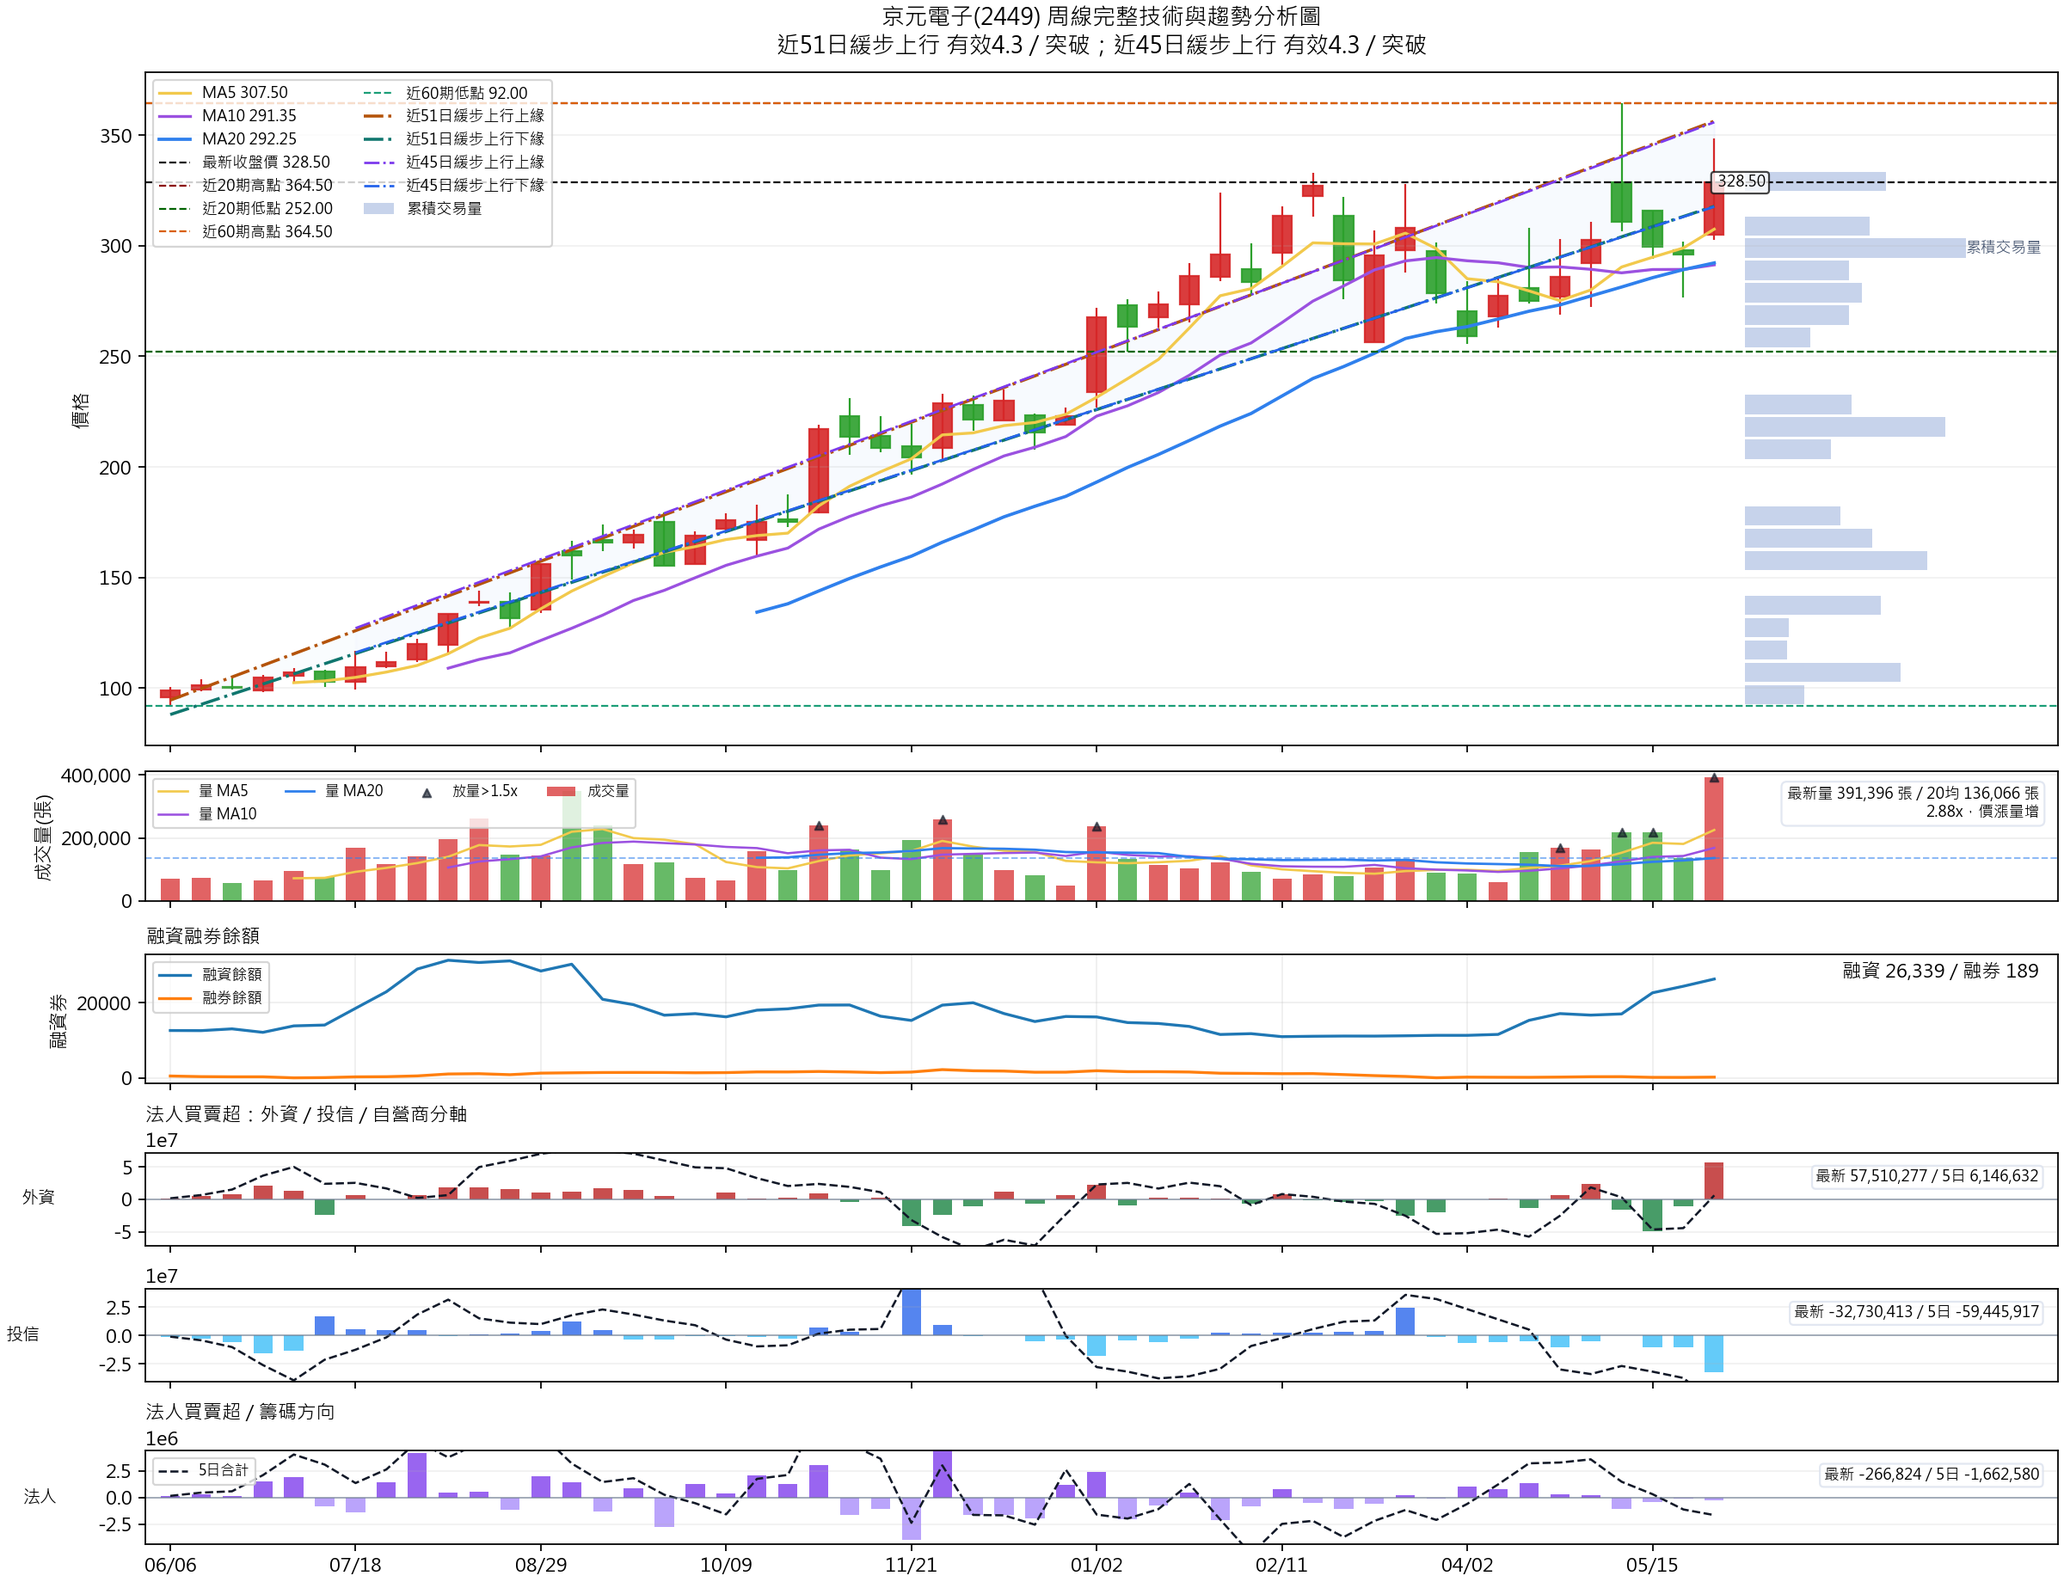
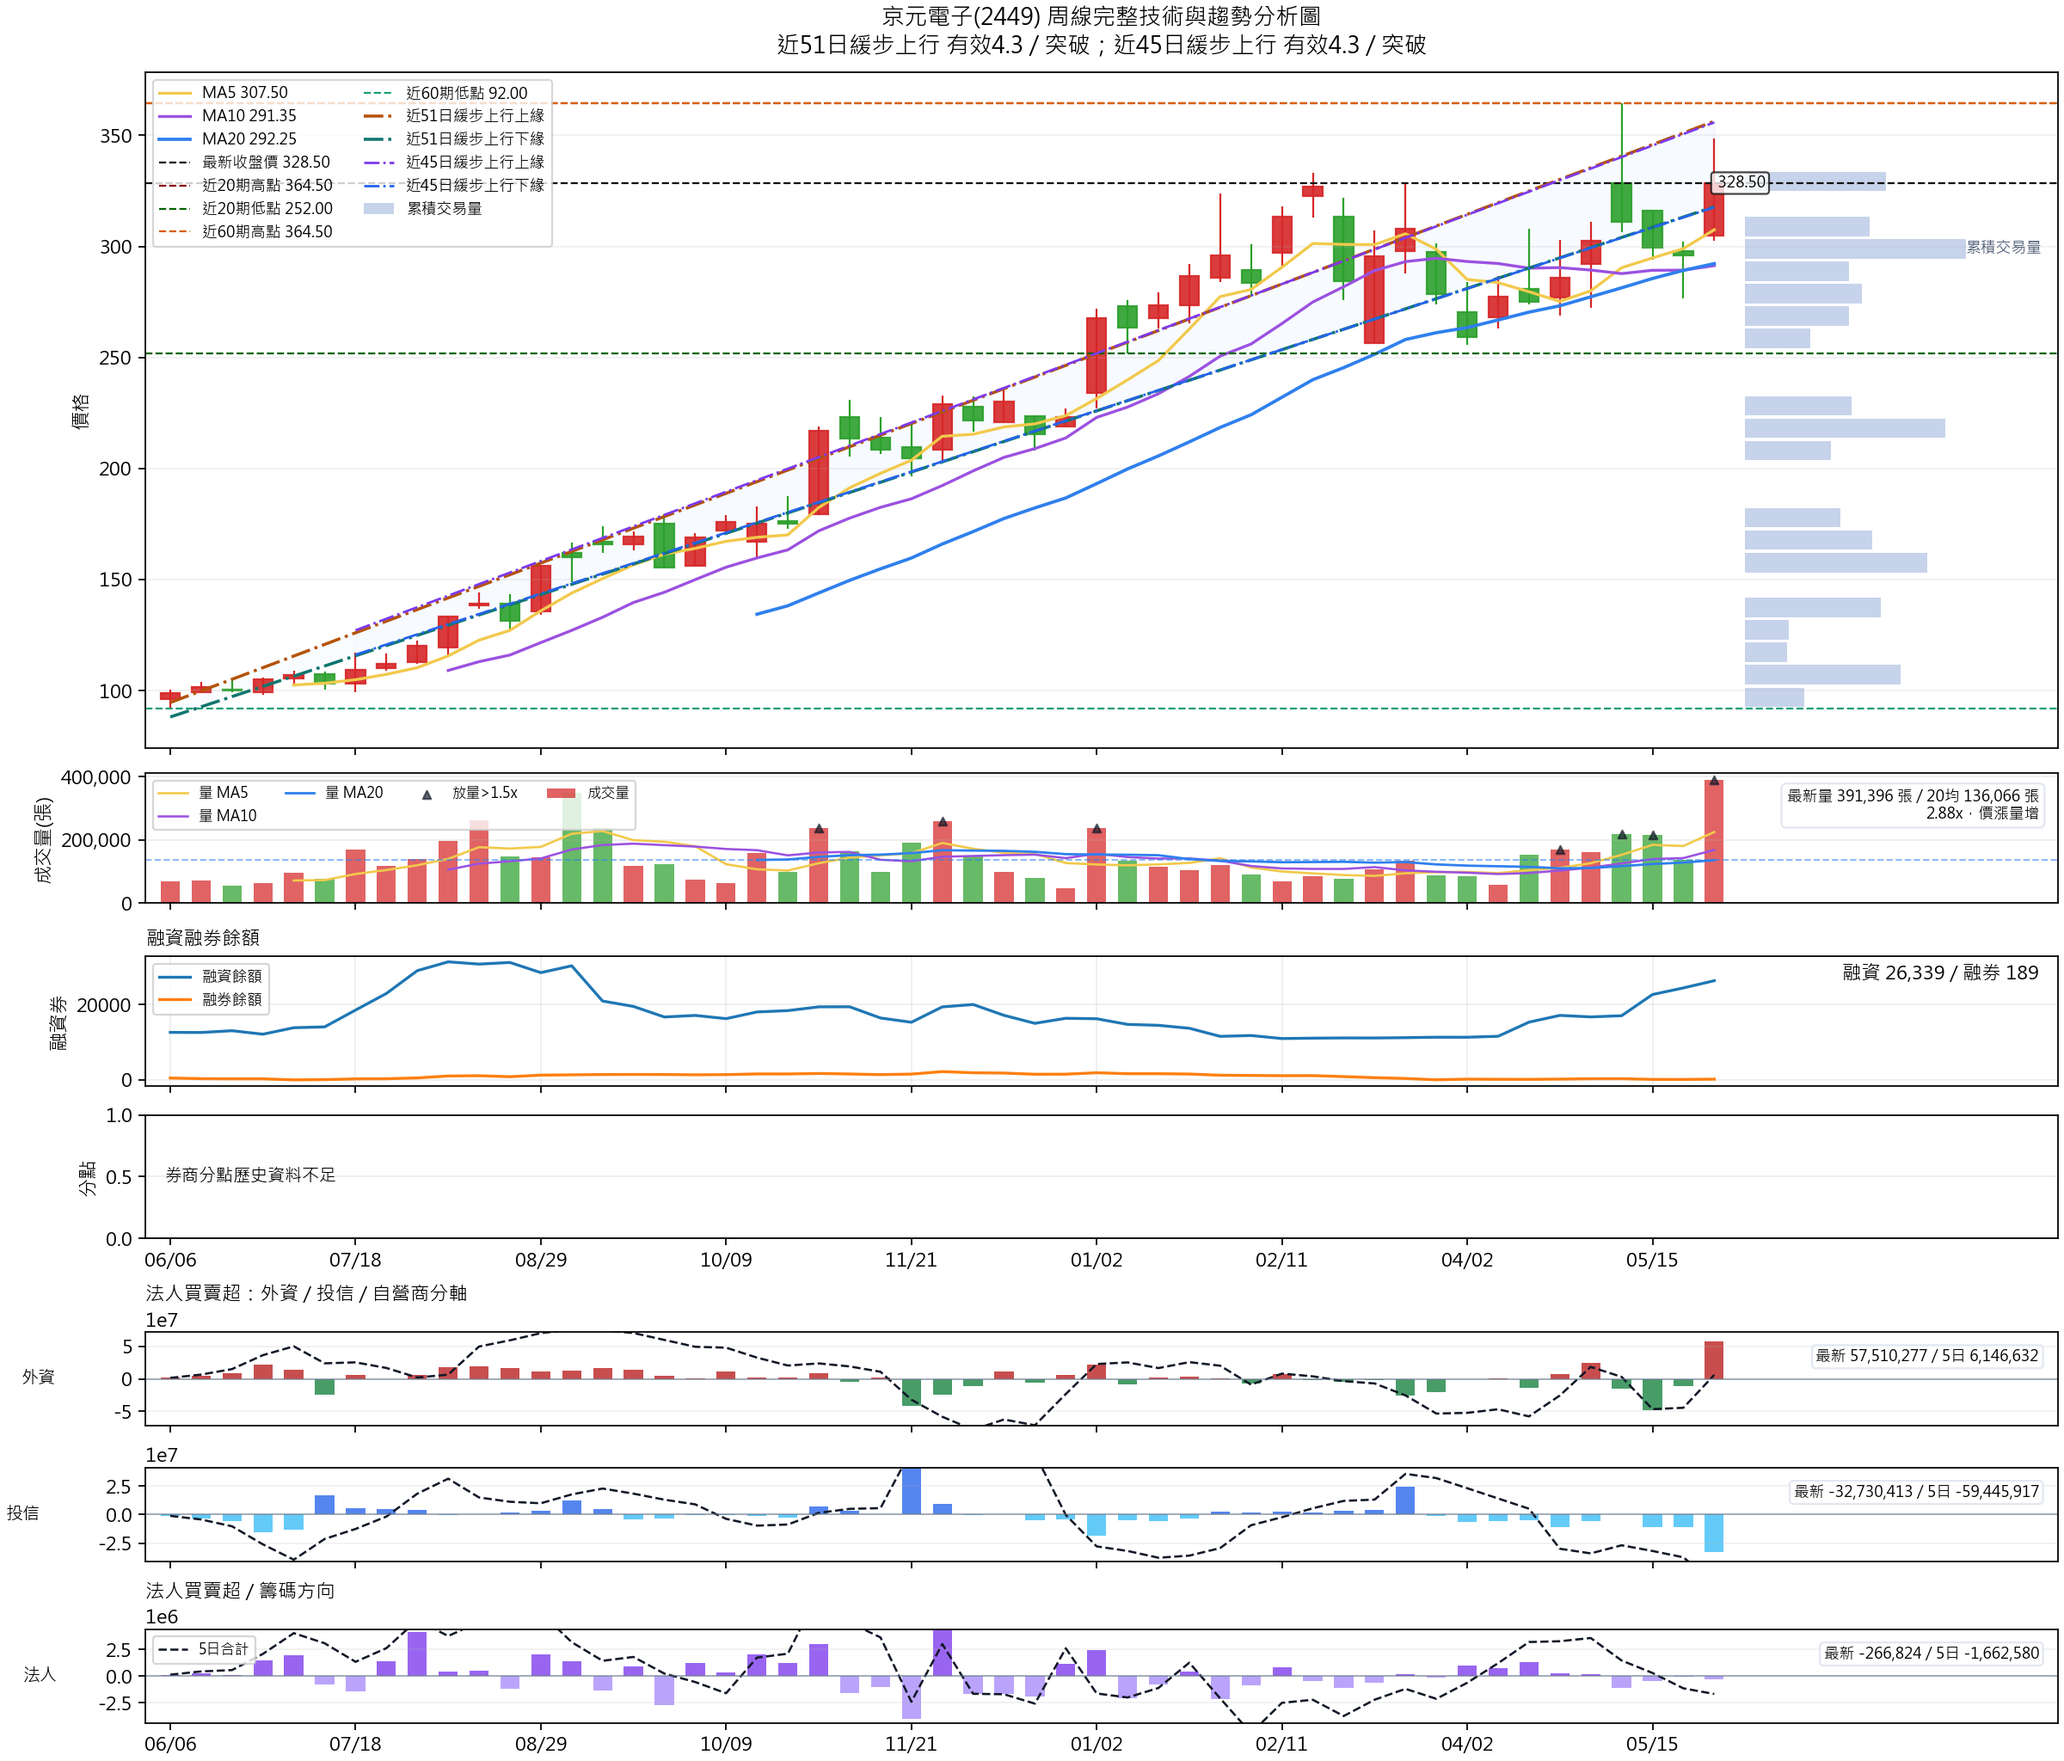
Publish stock report 2449_2026-05-31

diff --git a/2449_2026-05-31/index.html b/2449_2026-05-31/index.html
@@ -145,15 +145,15 @@
 <body>
   <header>
     <h1>京元電子(2449) 台股技術分析報告</h1>
-    <div>產生時間：2026-05-31T11:49:10+08:00</div>
+    <div>產生時間：2026-05-31T17:17:15+08:00</div>
   </header>
   <main>
     
     <section class="panel conclusion">
       <h2>結論摘要</h2>
-      <div class="summary-decision">偏多強勢，偏多震盪 / 偏多震盪 / 中性 245 元；現價差 +33.9%；偏高估區：不宜只用本益比追價</div>
+      <div class="summary-decision">偏多強勢，偏多震盪 / 偏多震盪 / 中性 251 元；現價差 +30.7%；偏高估區：不宜只用本益比追價</div>
       <div class="summary-grid"><div class="summary-card"><span>趨勢</span><strong>偏多強勢，偏多震盪</strong></div>
-<div class="summary-card"><span>估值</span><strong>中性 245 元；現價差 +33.9%；偏高估區：不宜只用本益比追價</strong></div>
+<div class="summary-card"><span>估值</span><strong>中性 251 元；現價差 +30.7%；偏高估區：不宜只用本益比追價</strong></div>
 <div class="summary-card"><span>支撐 / 壓力</span><strong>第一 323.90 / 第二 306.30 / 強 311.45 / 壓力 364.50</strong></div>
 <div class="summary-card"><span>觀察</span><strong>價漲量增；MA5 323.90 / MA10 306.30</strong></div>
 <div class="summary-card"><span>買點</span><strong>已突破 318.80 且站穩，回測不破可偏多續抱</strong></div>
@@ -199,19 +199,19 @@
     
         <section class="panel chart-panel">
           <h2>01_日線完整技術與籌碼分析圖</h2>
-          <img src="01_日線完整技術與籌碼分析圖.png?v=2026-05-31T11:49:10+08:00" alt="01_日線完整技術與籌碼分析圖">
+          <img src="01_日線完整技術與籌碼分析圖.png?v=2026-05-31T17:17:15+08:00" alt="01_日線完整技術與籌碼分析圖">
         </section>
         
 
         <section class="panel chart-panel">
           <h2>02_周線完整技術與趨勢分析圖</h2>
-          <img src="02_周線完整技術與趨勢分析圖.png?v=2026-05-31T11:49:10+08:00" alt="02_周線完整技術與趨勢分析圖">
+          <img src="02_周線完整技術與趨勢分析圖.png?v=2026-05-31T17:17:15+08:00" alt="02_周線完整技術與趨勢分析圖">
         </section>
         
 
         <section class="panel chart-panel">
           <h2>03_月線完整技術與長期趨勢分析圖</h2>
-          <img src="03_月線完整技術與長期趨勢分析圖.png?v=2026-05-31T11:49:10+08:00" alt="03_月線完整技術與長期趨勢分析圖">
+          <img src="03_月線完整技術與長期趨勢分析圖.png?v=2026-05-31T17:17:15+08:00" alt="03_月線完整技術與長期趨勢分析圖">
         </section>
         
     
@@ -232,8 +232,8 @@
             </tr>
           </thead>
           <tbody><tr><td>保守</td><td class="cell-number">111</td><td class="cell-number">15.0x</td><td class="cell-number">7.78</td><td class="cell-number">-66.2%</td><td>風險折價後的防守估值</td></tr>
-<tr><td>中性</td><td class="cell-number">245</td><td class="cell-number">31.5x</td><td class="cell-number">7.78</td><td class="cell-number">-25.4%</td><td>產業模型 + 歷史 PER + 前瞻 EPS</td></tr>
-<tr><td>樂觀</td><td class="cell-number">307</td><td class="cell-number">39.5x</td><td class="cell-number">7.78</td><td class="cell-number">-6.5%</td><td>催化溢價後的進攻估值</td></tr></tbody>
+<tr><td>中性</td><td class="cell-number">251</td><td class="cell-number">32.3x</td><td class="cell-number">7.78</td><td class="cell-number">-23.6%</td><td>產業模型 + 歷史 PER + 前瞻 EPS</td></tr>
+<tr><td>樂觀</td><td class="cell-number">315</td><td class="cell-number">40.5x</td><td class="cell-number">7.78</td><td class="cell-number">-4.1%</td><td>催化溢價後的進攻估值</td></tr></tbody>
         </table>
       </div>
     
@@ -247,7 +247,7 @@
               <th>依據</th>
             </tr>
           </thead>
-          <tbody><tr><td>EPS/PER</td><td class="cell-number">245</td><td>前瞻 EPS 7.78 × 中性 PER 31.5x</td></tr>
+          <tbody><tr><td>EPS/PER</td><td class="cell-number">251</td><td>前瞻 EPS 7.78 × 中性 PER 32.3x</td></tr>
 <tr><td>PBR/ROE</td><td class="cell-number">45</td><td>ROE 對應合理 PBR</td></tr>
 <tr><td>技術型態</td><td class="cell-number">442</td><td>上升通道 突破量測目標</td></tr>
 <tr><td>法人籌碼成本</td><td class="cell-number">324</td><td>外資 / 投信近20與60日加碼成本</td></tr>
@@ -268,7 +268,7 @@
           <tbody><tr><td>月營收趨勢</td><td>2026-04 月營收 37.43 億元；MoM 4.03%；YoY 34.56%；近 3 個月累計 YoY 36.99%；近 12 個月滾動營收 YoY 34.17%；創近 24 個月新高；連續 13 個月年增為正</td><td>營收動能</td></tr>
 <tr><td>獲利率</td><td>2026Q1 毛利率 39.74%（年變化 +6.25 個百分點）、營業利益率 27.20%（年變化 +6.38 個百分點）</td><td>毛利率 / 營業利益率</td></tr>
 <tr><td>季報細項</td><td>2026Q1 營業費用率 12.55%（年變化 -0.14 個百分點）、稅後淨利率 22.43%（年變化 +4.95 個百分點）、ROE 2.02%（年變化 -0.65 個百分點）</td><td>營業費用率 / 稅後淨利率 / ROE</td></tr>
-<tr><td>財報推算股價</td><td>估值區間：保守 111 / 中性 245 / 樂觀 307 元<br>模型：一般產業 PER（PER 下限 6.0x / 上限 35.0x）<br>假設：EPS 7.78，PER 15.0x / 31.5x / 39.5x<br>多模型中位：324 元<br>現價：328.50 元，較中性估值 +33.9%<br>判讀：偏高估區：不宜只用本益比追價</td><td>EPS / ROE / 獲利率</td></tr>
+<tr><td>財報推算股價</td><td>估值區間：保守 111 / 中性 251 / 樂觀 315 元<br>模型：成長型 PER（PER 下限 12.0x / 上限 45.0x）<br>假設：EPS 7.78，PER 15.0x / 32.3x / 40.5x<br>多模型中位：324 元<br>現價：328.50 元，較中性估值 +30.7%<br>判讀：偏高估區：不宜只用本益比追價</td><td>EPS / ROE / 獲利率</td></tr>
 <tr><td>估值狀態</td><td>月營收、估值與正式 EPS 已取得</td><td>PER / PBR / EPS</td></tr></tbody>
         </table>
       </div>
@@ -279,7 +279,7 @@
     
         <section class="panel chart-panel">
           <h2>06_基本面分析圖</h2>
-          <img src="06_基本面分析圖.png?v=2026-05-31T11:49:10+08:00" alt="06_基本面分析圖">
+          <img src="06_基本面分析圖.png?v=2026-05-31T17:17:15+08:00" alt="06_基本面分析圖">
         </section>
         
     
@@ -309,6 +309,36 @@
         </section>
         
     
+        <section class="panel analysis">
+          <h2>券商分點勝率回測</h2>
+          <ul><li>分點資料期間 2026-05-29 to 2026-05-29，共 1 個交易日、20 筆。</li><li>目前已標示最新公開分點買賣超；累積滿 5 / 30 個交易日樣本後，會自動改為顯示勝率最高分點。</li></ul>
+          
+      <div class="table-scroll">
+        <table>
+          <thead>
+            <tr>
+              <th>回測</th>
+              <th>券商分點</th>
+              <th>買超樣本</th>
+              <th>買後勝率</th>
+              <th>買後均報酬</th>
+              <th>賣超樣本</th>
+              <th>賣後勝率</th>
+              <th>近20日淨買賣</th>
+              <th>最新淨買賣</th>
+            </tr>
+          </thead>
+          <tbody><tr><td>最新</td><td>玉山</td><td class="cell-number">0</td><td class="cell-number">-</td><td class="cell-number">+0.00%</td><td class="cell-number">0</td><td class="cell-number">-</td><td class="cell-number">-5,519</td><td class="cell-number">-5,519</td></tr>
+<tr><td>最新</td><td>花旗環球</td><td class="cell-number">0</td><td class="cell-number">-</td><td class="cell-number">+0.00%</td><td class="cell-number">0</td><td class="cell-number">-</td><td class="cell-number">-3,360</td><td class="cell-number">-3,360</td></tr>
+<tr><td>最新</td><td>摩根大通</td><td class="cell-number">0</td><td class="cell-number">-</td><td class="cell-number">+0.00%</td><td class="cell-number">0</td><td class="cell-number">-</td><td class="cell-number">2,754</td><td class="cell-number">2,754</td></tr>
+<tr><td>最新</td><td>摩根士丹利</td><td class="cell-number">0</td><td class="cell-number">-</td><td class="cell-number">+0.00%</td><td class="cell-number">0</td><td class="cell-number">-</td><td class="cell-number">2,596</td><td class="cell-number">2,596</td></tr>
+<tr><td>最新</td><td>富邦</td><td class="cell-number">0</td><td class="cell-number">-</td><td class="cell-number">+0.00%</td><td class="cell-number">0</td><td class="cell-number">-</td><td class="cell-number">2,059</td><td class="cell-number">2,059</td></tr>
+<tr><td>最新</td><td>美商高盛</td><td class="cell-number">0</td><td class="cell-number">-</td><td class="cell-number">+0.00%</td><td class="cell-number">0</td><td class="cell-number">-</td><td class="cell-number">1,983</td><td class="cell-number">1,983</td></tr></tbody>
+        </table>
+      </div>
+    
+        </section>
+        
     
         <section class="panel analysis">
           <h2>同族群產業定位 / 產品組合</h2>
@@ -338,7 +368,7 @@
     
         <section class="panel chart-panel">
           <h2>05_同族群比較分析圖</h2>
-          <img src="05_同族群比較分析圖.png?v=2026-05-31T11:49:10+08:00" alt="05_同族群比較分析圖">
+          <img src="05_同族群比較分析圖.png?v=2026-05-31T17:17:15+08:00" alt="05_同族群比較分析圖">
         </section>
         
     
@@ -533,7 +563,7 @@
       <div class="detail-body"><ul><li>認購優勢不明顯，權證籌碼只代表觀望，不支持單邊偏多</li><li>認購成交占 0.00%，近價外認購 37 檔，前五大成交占 0.00%</li><li>權證熱區不足，暫不評估股價位置</li></ul>
         <section class="panel chart-panel">
           <h2>04_權證完整分析圖</h2>
-          <img src="04_權證完整分析圖.png?v=2026-05-31T11:49:10+08:00" alt="04_權證完整分析圖">
+          <img src="04_權證完整分析圖.png?v=2026-05-31T17:17:15+08:00" alt="04_權證完整分析圖">
         </section>
         
       <div class="table-scroll">
